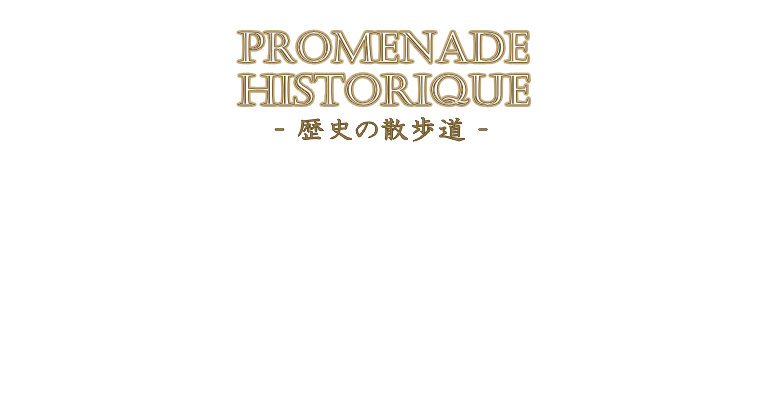
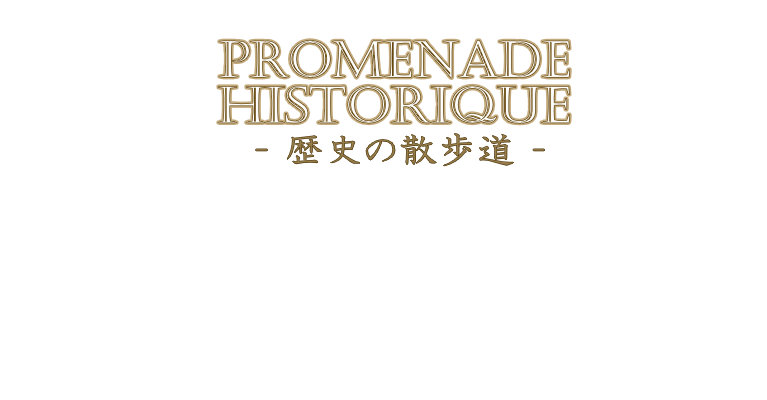
SP時のヘッダー修正

Changed region(s): [[0.2699, 0.06, 0.7497, 0.42], [0.6897, 0.36, 0.7197, 0.39]]

diff --git a/style.css b/style.css
@@ -68,17 +68,6 @@ header::before{
   left: 0;
 }
 
-@media screen and (max-width: 1279px) {
-  header {
-  width: 100%;
-  height: 180px;
-  background:url(img/header-img-md.jpg);
-  background-size: cover;
-  display:inline-block;
-  border-top: #323232 solid 8px;
-  position: relative;
-  }
-}
 
 .blog-header {
   width: auto;
@@ -572,6 +561,22 @@ Back to top
 }
 
 /*-------------------------------------------
+md
+-------------------------------------------*/
+
+@media screen and (max-width: 1279px) {
+  header {
+  width: 100%;
+  height: 180px;
+  background:url(img/header-img-md.jpg);
+  background-size: cover;
+  display:inline-block;
+  border-top: #323232 solid 8px;
+  position: relative;
+  }
+}
+
+/*-------------------------------------------
 SP
 -------------------------------------------*/
 
@@ -615,7 +620,7 @@ SP
   }
 
   .author {
-    width:50%;
+    width:64%;
     padding-top: 30px;
     margin: 0 auto;
   }
